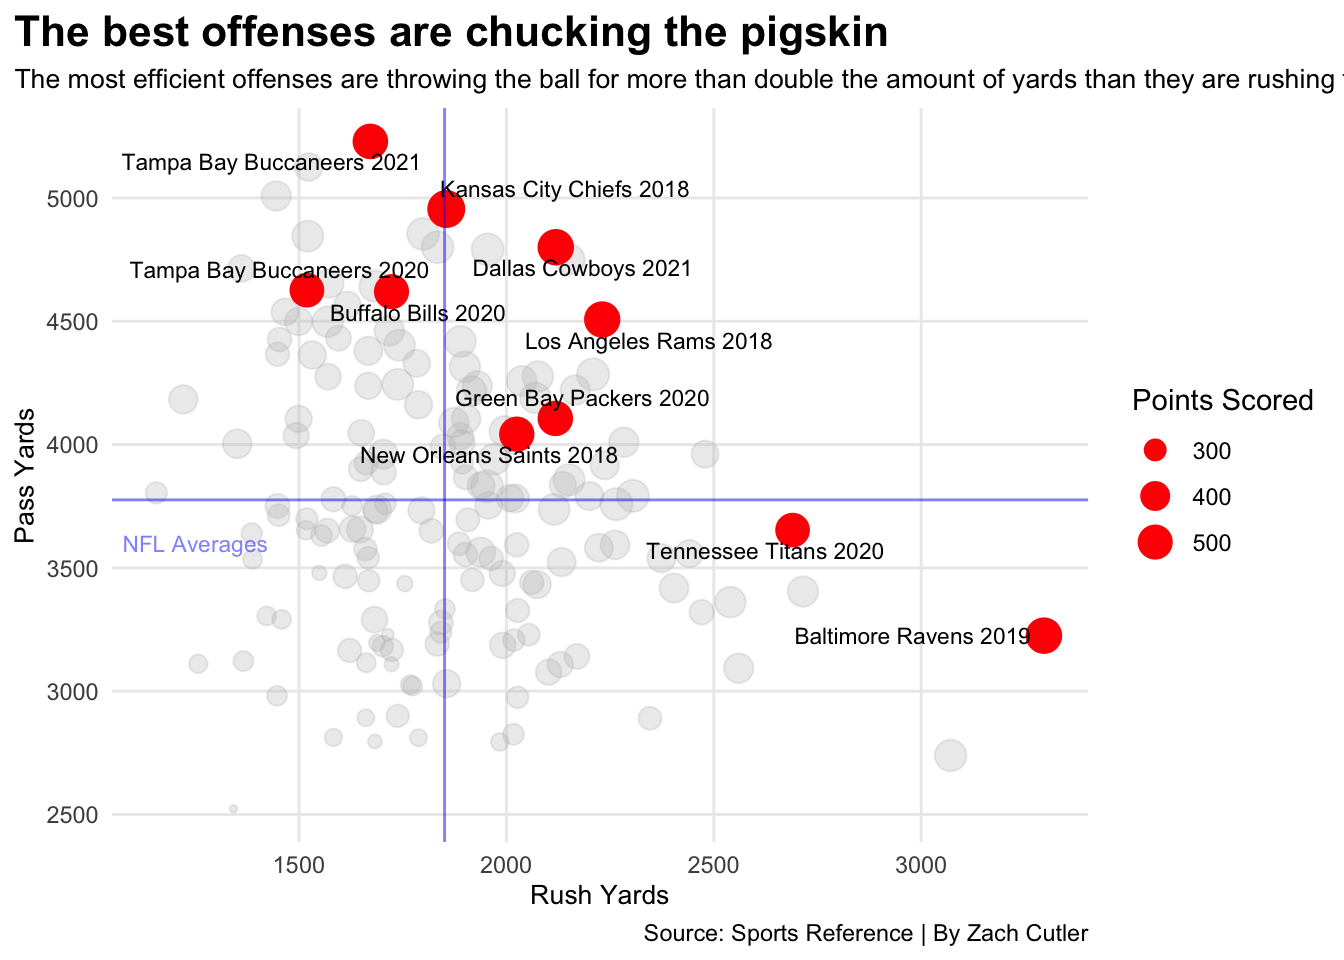
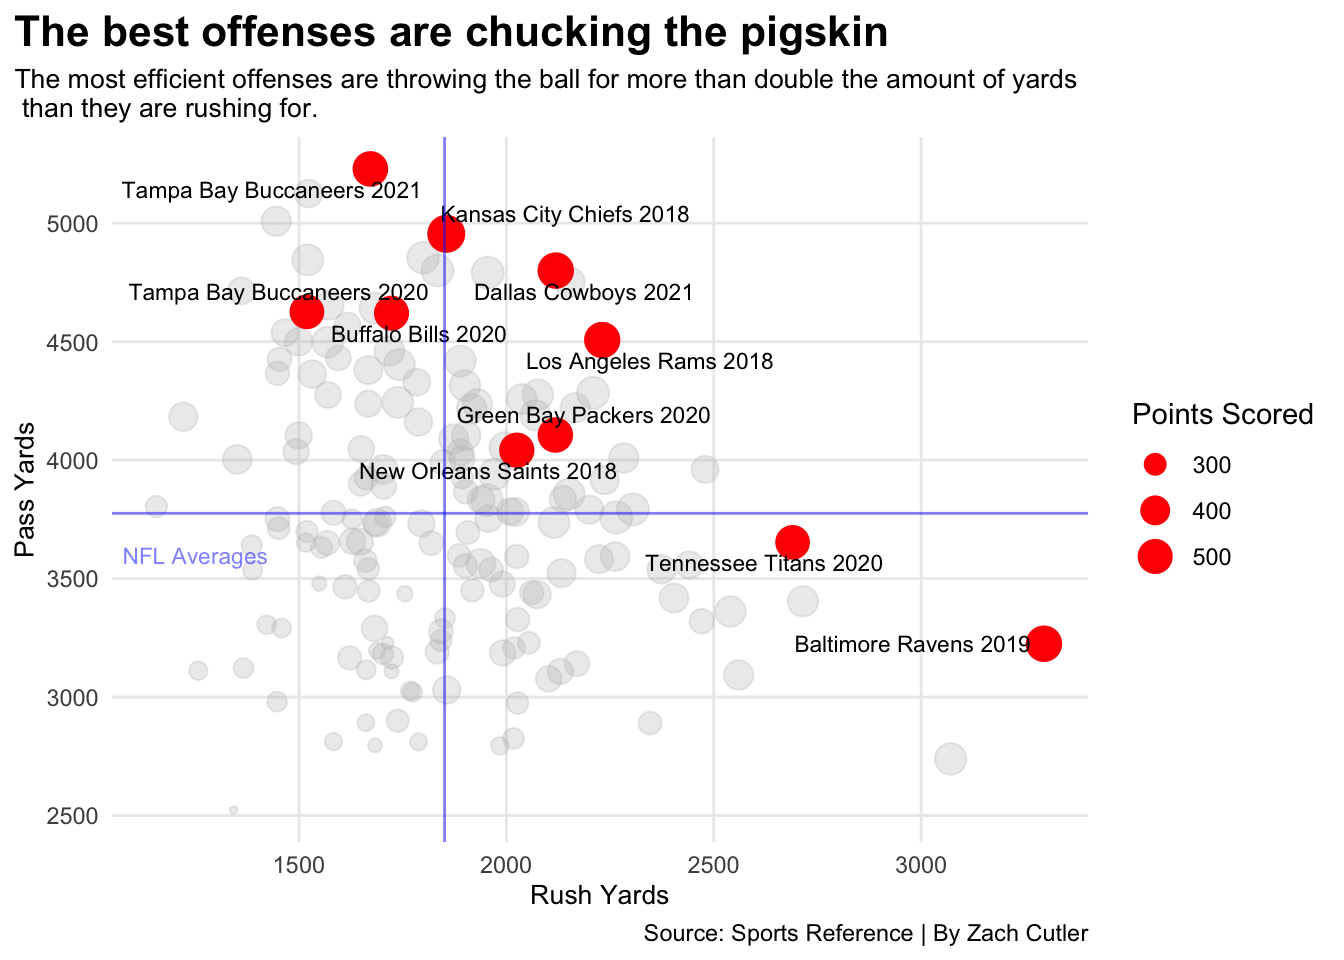
LAst one
I pormose!

diff --git a/posts/what-is-the-point-of-running-the-football-in-the-modern-nfl/index.html b/posts/what-is-the-point-of-running-the-football-in-the-modern-nfl/index.html
@@ -277,7 +277,7 @@ code span.wa { color: #60a0b0; font-weight: bold; font-style: italic; } /* Warni
 <span id="cb1-62"><a href="#cb1-62" aria-hidden="true" tabindex="-1"></a>    ) <span class="sc">+</span></span>
 <span id="cb1-63"><a href="#cb1-63" aria-hidden="true" tabindex="-1"></a>  <span class="fu">labs</span>(</span>
 <span id="cb1-64"><a href="#cb1-64" aria-hidden="true" tabindex="-1"></a>    <span class="at">title=</span> <span class="st">"The best offenses are chucking the pigskin"</span>,</span>
-<span id="cb1-65"><a href="#cb1-65" aria-hidden="true" tabindex="-1"></a>    <span class="at">subtitle=</span> <span class="st">"The most efficient offenses are throwing the ball for more than double the amount of yards than they are rushing for."</span>, </span>
+<span id="cb1-65"><a href="#cb1-65" aria-hidden="true" tabindex="-1"></a>    <span class="at">subtitle=</span> <span class="st">"The most efficient offenses are throwing the ball for more than double the amount of yards</span><span class="sc">\n</span><span class="st"> than they are rushing for."</span>, </span>
 <span id="cb1-66"><a href="#cb1-66" aria-hidden="true" tabindex="-1"></a>    <span class="at">caption =</span> <span class="st">"Source: Sports Reference | By Zach Cutler"</span>,</span>
 <span id="cb1-67"><a href="#cb1-67" aria-hidden="true" tabindex="-1"></a>    <span class="at">x =</span> <span class="st">"Rush Yards"</span>,</span>
 <span id="cb1-68"><a href="#cb1-68" aria-hidden="true" tabindex="-1"></a>    <span class="at">y=</span> <span class="st">"Pass Yards"</span>,</span>
@@ -365,12 +365,12 @@ code span.wa { color: #60a0b0; font-weight: bold; font-style: italic; } /* Warni
 </details>
 <div class="cell-output-display">
 
-<div id="rqqtexnnym" style="overflow-x:auto;overflow-y:auto;width:auto;height:auto;">
+<div id="zbrlzkknth" style="overflow-x:auto;overflow-y:auto;width:auto;height:auto;">
 <style>html {
   font-family: -apple-system, BlinkMacSystemFont, 'Segoe UI', Roboto, Oxygen, Ubuntu, Cantarell, 'Helvetica Neue', 'Fira Sans', 'Droid Sans', Arial, sans-serif;
 }
 
-:where(#rqqtexnnym) .gt_table {
+:where(#zbrlzkknth) .gt_table {
   display: table;
   border-collapse: collapse;
   margin-left: auto;
@@ -395,7 +395,7 @@ code span.wa { color: #60a0b0; font-weight: bold; font-style: italic; } /* Warni
   border-left-color: #D3D3D3;
 }
 
-:where(#rqqtexnnym) .gt_heading {
+:where(#zbrlzkknth) .gt_heading {
   background-color: #FFFFFF;
   text-align: center;
   border-bottom-color: #FFFFFF;
@@ -407,7 +407,7 @@ code span.wa { color: #60a0b0; font-weight: bold; font-style: italic; } /* Warni
   border-right-color: #D3D3D3;
 }
 
-:where(#rqqtexnnym) .gt_title {
+:where(#zbrlzkknth) .gt_title {
   color: #333333;
   font-size: 125%;
   font-weight: initial;
@@ -419,7 +419,7 @@ code span.wa { color: #60a0b0; font-weight: bold; font-style: italic; } /* Warni
   border-bottom-width: 0;
 }
 
-:where(#rqqtexnnym) .gt_subtitle {
+:where(#zbrlzkknth) .gt_subtitle {
   color: #333333;
   font-size: 85%;
   font-weight: initial;
@@ -431,13 +431,13 @@ code span.wa { color: #60a0b0; font-weight: bold; font-style: italic; } /* Warni
   border-top-width: 0;
 }
 
-:where(#rqqtexnnym) .gt_bottom_border {
+:where(#zbrlzkknth) .gt_bottom_border {
   border-bottom-style: solid;
   border-bottom-width: 2px;
   border-bottom-color: #D3D3D3;
 }
 
-:where(#rqqtexnnym) .gt_col_headings {
+:where(#zbrlzkknth) .gt_col_headings {
   border-top-style: solid;
   border-top-width: 2px;
   border-top-color: #D3D3D3;
@@ -452,7 +452,7 @@ code span.wa { color: #60a0b0; font-weight: bold; font-style: italic; } /* Warni
   border-right-color: #D3D3D3;
 }
 
-:where(#rqqtexnnym) .gt_col_heading {
+:where(#zbrlzkknth) .gt_col_heading {
   color: #333333;
   background-color: #FFFFFF;
   font-size: 100%;
@@ -472,7 +472,7 @@ code span.wa { color: #60a0b0; font-weight: bold; font-style: italic; } /* Warni
   overflow-x: hidden;
 }
 
-:where(#rqqtexnnym) .gt_column_spanner_outer {
+:where(#zbrlzkknth) .gt_column_spanner_outer {
   color: #333333;
   background-color: #FFFFFF;
   font-size: 100%;
@@ -484,15 +484,15 @@ code span.wa { color: #60a0b0; font-weight: bold; font-style: italic; } /* Warni
   padding-right: 4px;
 }
 
-:where(#rqqtexnnym) .gt_column_spanner_outer:first-child {
+:where(#zbrlzkknth) .gt_column_spanner_outer:first-child {
   padding-left: 0;
 }
 
-:where(#rqqtexnnym) .gt_column_spanner_outer:last-child {
+:where(#zbrlzkknth) .gt_column_spanner_outer:last-child {
   padding-right: 0;
 }
 
-:where(#rqqtexnnym) .gt_column_spanner {
+:where(#zbrlzkknth) .gt_column_spanner {
   border-bottom-style: solid;
   border-bottom-width: 2px;
   border-bottom-color: #D3D3D3;
@@ -504,7 +504,7 @@ code span.wa { color: #60a0b0; font-weight: bold; font-style: italic; } /* Warni
   width: 100%;
 }
 
-:where(#rqqtexnnym) .gt_group_heading {
+:where(#zbrlzkknth) .gt_group_heading {
   padding-top: 8px;
   padding-bottom: 8px;
   padding-left: 5px;
@@ -529,7 +529,7 @@ code span.wa { color: #60a0b0; font-weight: bold; font-style: italic; } /* Warni
   vertical-align: middle;
 }
 
-:where(#rqqtexnnym) .gt_empty_group_heading {
+:where(#zbrlzkknth) .gt_empty_group_heading {
   padding: 0.5px;
   color: #333333;
   background-color: #FFFFFF;
@@ -544,15 +544,15 @@ code span.wa { color: #60a0b0; font-weight: bold; font-style: italic; } /* Warni
   vertical-align: middle;
 }
 
-:where(#rqqtexnnym) .gt_from_md > :first-child {
+:where(#zbrlzkknth) .gt_from_md > :first-child {
   margin-top: 0;
 }
 
-:where(#rqqtexnnym) .gt_from_md > :last-child {
+:where(#zbrlzkknth) .gt_from_md > :last-child {
   margin-bottom: 0;
 }
 
-:where(#rqqtexnnym) .gt_row {
+:where(#zbrlzkknth) .gt_row {
   padding-top: 8px;
   padding-bottom: 8px;
   padding-left: 5px;
@@ -571,7 +571,7 @@ code span.wa { color: #60a0b0; font-weight: bold; font-style: italic; } /* Warni
   overflow-x: hidden;
 }
 
-:where(#rqqtexnnym) .gt_stub {
+:where(#zbrlzkknth) .gt_stub {
   color: #333333;
   background-color: #FFFFFF;
   font-size: 100%;
@@ -584,7 +584,7 @@ code span.wa { color: #60a0b0; font-weight: bold; font-style: italic; } /* Warni
   padding-right: 5px;
 }
 
-:where(#rqqtexnnym) .gt_stub_row_group {
+:where(#zbrlzkknth) .gt_stub_row_group {
   color: #333333;
   background-color: #FFFFFF;
   font-size: 100%;
@@ -598,11 +598,11 @@ code span.wa { color: #60a0b0; font-weight: bold; font-style: italic; } /* Warni
   vertical-align: top;
 }
 
-:where(#rqqtexnnym) .gt_row_group_first td {
+:where(#zbrlzkknth) .gt_row_group_first td {
   border-top-width: 2px;
 }
 
-:where(#rqqtexnnym) .gt_summary_row {
+:where(#zbrlzkknth) .gt_summary_row {
   color: #333333;
   background-color: #FFFFFF;
   text-transform: inherit;
@@ -612,16 +612,16 @@ code span.wa { color: #60a0b0; font-weight: bold; font-style: italic; } /* Warni
   padding-right: 5px;
 }
 
-:where(#rqqtexnnym) .gt_first_summary_row {
+:where(#zbrlzkknth) .gt_first_summary_row {
   border-top-style: solid;
   border-top-color: #D3D3D3;
 }
 
-:where(#rqqtexnnym) .gt_first_summary_row.thick {
+:where(#zbrlzkknth) .gt_first_summary_row.thick {
   border-top-width: 2px;
 }
 
-:where(#rqqtexnnym) .gt_last_summary_row {
+:where(#zbrlzkknth) .gt_last_summary_row {
   padding-top: 8px;
   padding-bottom: 8px;
   padding-left: 5px;
@@ -631,7 +631,7 @@ code span.wa { color: #60a0b0; font-weight: bold; font-style: italic; } /* Warni
   border-bottom-color: #D3D3D3;
 }
 
-:where(#rqqtexnnym) .gt_grand_summary_row {
+:where(#zbrlzkknth) .gt_grand_summary_row {
   color: #333333;
   background-color: #FFFFFF;
   text-transform: inherit;
@@ -641,7 +641,7 @@ code span.wa { color: #60a0b0; font-weight: bold; font-style: italic; } /* Warni
   padding-right: 5px;
 }
 
-:where(#rqqtexnnym) .gt_first_grand_summary_row {
+:where(#zbrlzkknth) .gt_first_grand_summary_row {
   padding-top: 8px;
   padding-bottom: 8px;
   padding-left: 5px;
@@ -651,11 +651,11 @@ code span.wa { color: #60a0b0; font-weight: bold; font-style: italic; } /* Warni
   border-top-color: #D3D3D3;
 }
 
-:where(#rqqtexnnym) .gt_striped {
+:where(#zbrlzkknth) .gt_striped {
   background-color: rgba(128, 128, 128, 0.05);
 }
 
-:where(#rqqtexnnym) .gt_table_body {
+:where(#zbrlzkknth) .gt_table_body {
   border-top-style: solid;
   border-top-width: 2px;
   border-top-color: #D3D3D3;
@@ -664,7 +664,7 @@ code span.wa { color: #60a0b0; font-weight: bold; font-style: italic; } /* Warni
   border-bottom-color: #D3D3D3;
 }
 
-:where(#rqqtexnnym) .gt_footnotes {
+:where(#zbrlzkknth) .gt_footnotes {
   color: #333333;
   background-color: #FFFFFF;
   border-bottom-style: none;
@@ -678,7 +678,7 @@ code span.wa { color: #60a0b0; font-weight: bold; font-style: italic; } /* Warni
   border-right-color: #D3D3D3;
 }
 
-:where(#rqqtexnnym) .gt_footnote {
+:where(#zbrlzkknth) .gt_footnote {
   margin: 0px;
   font-size: 90%;
   padding-left: 4px;
@@ -687,7 +687,7 @@ code span.wa { color: #60a0b0; font-weight: bold; font-style: italic; } /* Warni
   padding-right: 5px;
 }
 
-:where(#rqqtexnnym) .gt_sourcenotes {
+:where(#zbrlzkknth) .gt_sourcenotes {
   color: #333333;
   background-color: #FFFFFF;
   border-bottom-style: none;
@@ -701,7 +701,7 @@ code span.wa { color: #60a0b0; font-weight: bold; font-style: italic; } /* Warni
   border-right-color: #D3D3D3;
 }
 
-:where(#rqqtexnnym) .gt_sourcenote {
+:where(#zbrlzkknth) .gt_sourcenote {
   font-size: 90%;
   padding-top: 4px;
   padding-bottom: 4px;
@@ -709,64 +709,64 @@ code span.wa { color: #60a0b0; font-weight: bold; font-style: italic; } /* Warni
   padding-right: 5px;
 }
 
-:where(#rqqtexnnym) .gt_left {
+:where(#zbrlzkknth) .gt_left {
   text-align: left;
 }
 
-:where(#rqqtexnnym) .gt_center {
+:where(#zbrlzkknth) .gt_center {
   text-align: center;
 }
 
-:where(#rqqtexnnym) .gt_right {
+:where(#zbrlzkknth) .gt_right {
   text-align: right;
   font-variant-numeric: tabular-nums;
 }
 
-:where(#rqqtexnnym) .gt_font_normal {
+:where(#zbrlzkknth) .gt_font_normal {
   font-weight: normal;
 }
 
-:where(#rqqtexnnym) .gt_font_bold {
+:where(#zbrlzkknth) .gt_font_bold {
   font-weight: bold;
 }
 
-:where(#rqqtexnnym) .gt_font_italic {
+:where(#zbrlzkknth) .gt_font_italic {
   font-style: italic;
 }
 
-:where(#rqqtexnnym) .gt_super {
+:where(#zbrlzkknth) .gt_super {
   font-size: 65%;
 }
 
-:where(#rqqtexnnym) .gt_footnote_marks {
+:where(#zbrlzkknth) .gt_footnote_marks {
   font-style: italic;
   font-weight: normal;
   font-size: 75%;
   vertical-align: 0.4em;
 }
 
-:where(#rqqtexnnym) .gt_asterisk {
+:where(#zbrlzkknth) .gt_asterisk {
   font-size: 100%;
   vertical-align: 0;
 }
 
-:where(#rqqtexnnym) .gt_indent_1 {
+:where(#zbrlzkknth) .gt_indent_1 {
   text-indent: 5px;
 }
 
-:where(#rqqtexnnym) .gt_indent_2 {
+:where(#zbrlzkknth) .gt_indent_2 {
   text-indent: 10px;
 }
 
-:where(#rqqtexnnym) .gt_indent_3 {
+:where(#zbrlzkknth) .gt_indent_3 {
   text-indent: 15px;
 }
 
-:where(#rqqtexnnym) .gt_indent_4 {
+:where(#zbrlzkknth) .gt_indent_4 {
   text-indent: 20px;
 }
 
-:where(#rqqtexnnym) .gt_indent_5 {
+:where(#zbrlzkknth) .gt_indent_5 {
   text-indent: 25px;
 }
 </style>

diff --git a/index.html b/index.html
@@ -164,7 +164,7 @@ ul.task-list li input[type="checkbox"] {
 
 <div class="quarto-listing quarto-listing-container-default" id="listing-listing">
 <div class="list quarto-listing-default">
-<div class="quarto-post image-right" data-index="0" data-categories="football,nfl,analysis" data-listing-date-sort="1667538000000" data-listing-file-modified-sort="1667831661199" data-listing-reading-time-sort="7.675">
+<div class="quarto-post image-right" data-index="0" data-categories="football,nfl,analysis" data-listing-date-sort="1667538000000" data-listing-file-modified-sort="1667835523683" data-listing-reading-time-sort="7.675">
 <div class="thumbnail">
 <p><a href="./posts/what-is-the-point-of-running-the-football-in-the-modern-nfl/index.html"> <img src="./posts/what-is-the-point-of-running-the-football-in-the-modern-nfl/image.png" class="thumnail-image"> </a></p>
 </div>
